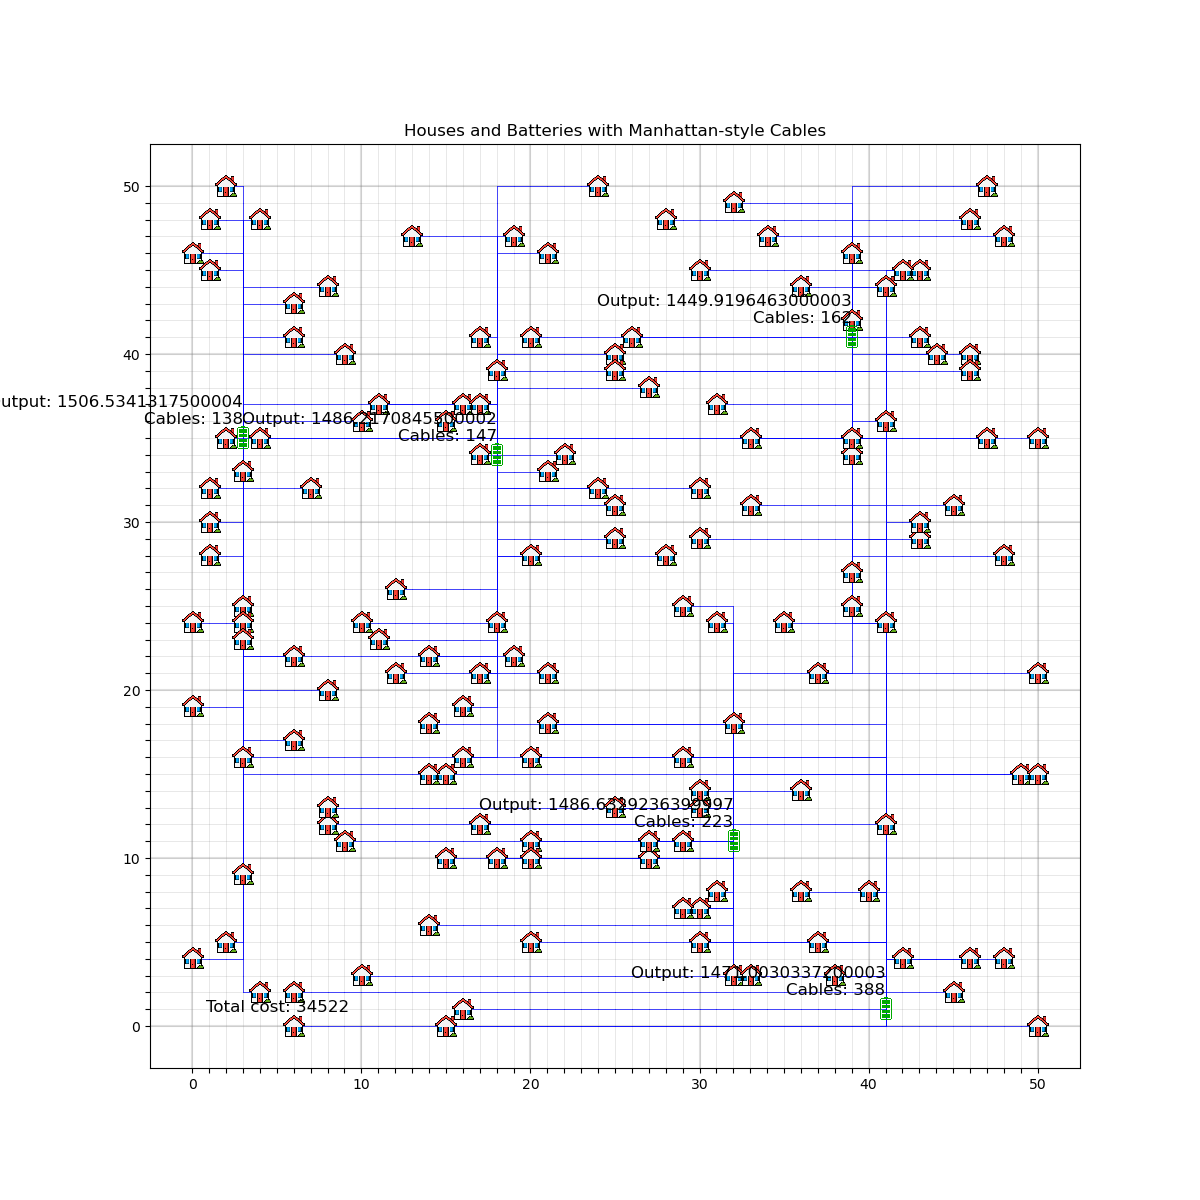
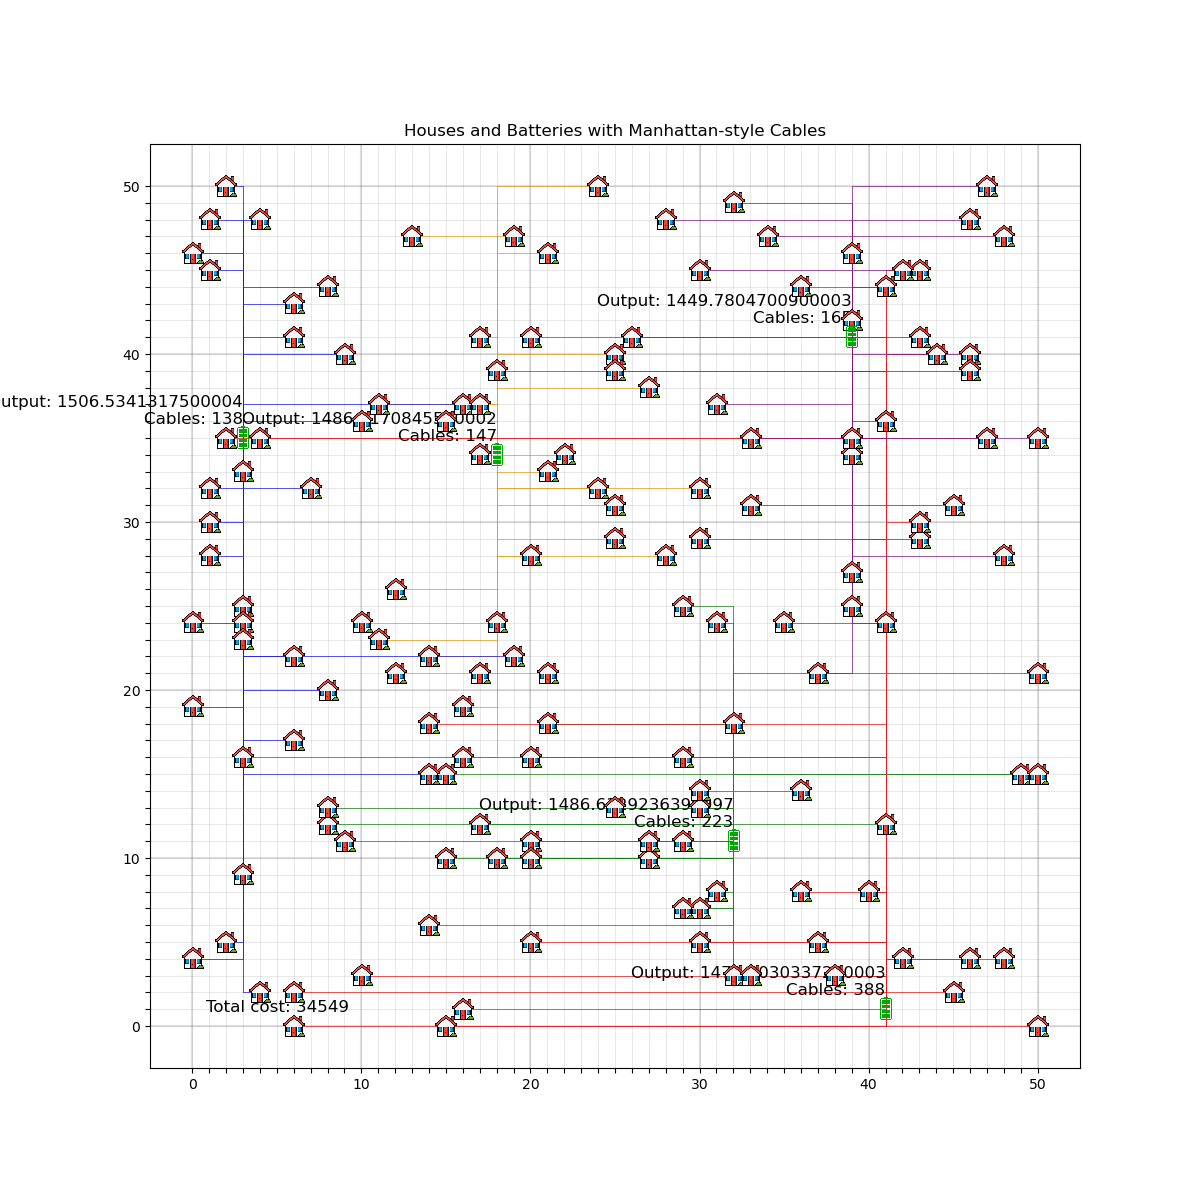
added colors to the visualize module

Changed region(s): [[0.5858, 0.2467, 0.6475, 0.2775], [0.2775, 0.8325, 0.3083, 0.8633]]

diff --git a/code/helpers/visualize.py b/code/helpers/visualize.py
@@ -52,6 +52,9 @@ def visualize(district, district_number):
     # Set total cost to 0
     total_cost = 0
 
+    # Store the colors of the batteries to later give the cables that color
+    battery_colors = ['orange', 'green', 'red', 'blue', 'purple']
+    
     # Plot batteries
     for battery in experiment_instance.batteries:
         plot_battery(battery_image, battery.x, battery.y)
@@ -77,7 +80,7 @@ def visualize(district, district_number):
         # Calculate the total cables used
         total_cables = len(battery_cables)
 
-        # Ecery cable adds 9 to the total cost
+        # Every cable adds 9 to the total cost, since this is the cost formula
         total_cost += total_cables * 9
 
         # Annotate the battery with the total output and total cables
@@ -86,9 +89,13 @@ def visualize(district, district_number):
                     xytext=(0,10), ha='right', fontsize=12, color='black')
 
     # Plot cables
-    for cable in experiment_instance.cables:
-        plt.plot([cable.start_x, cable.end_x], [cable.start_y, cable.end_y], 
-                'b-', linewidth=0.5)
+    for i in range(len(experiment_instance.batteries)):
+
+        #loop over the cables in experiment and look for the colors by ID so it plots cable colors per battery
+        for cable in experiment_instance.cables:
+            if cable.connected_battery == experiment_instance.batteries[i]:
+                plt.plot([cable.start_x, cable.end_x], [cable.start_y, cable.end_y], 
+                linewidth=0.5, color=battery_colors[i], zorder=0)
         
     # Add the total cost of the district to the plot
     plt.annotate(f'Total cost: {total_cost}', (0, 0), textcoords="offset points", 
